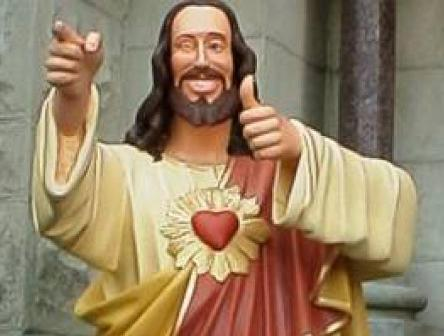
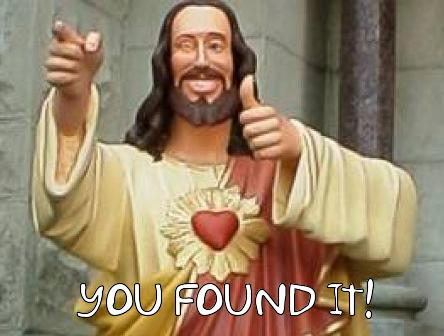
Final code clean-up & README update
Cleaned up code-base to remove unneeded example of the home app to make the provider search app the default home page.

Updated the README with instructions to fire up the application and touched up the about page.

Changed region(s): [[0.1757, 0.8333, 0.8491, 0.9524]]

diff --git a/src/about/components/about.jsx b/src/about/components/about.jsx
@@ -1,17 +1,32 @@
 import React, { Component } from 'react';
+import PageTitle from '../../shared/components/page-title';
+import '../../styles/about.css';
 
 // Since this component is simple and static, there's no parent container for it.
 export default class AboutPage extends Component {
     render() {
-        return <div className="container">
-            <div className="container-fluid text-center">
-                <h2>About This App</h2>
-            </div>
-            
-            <hr/>
+        return <div className="about-page-content">
+            <PageTitle title="About This App" />
 
-            <div className="container-fluid text-center">
-                <p>This app was built with Facebook's <b><a href="https://github.com/facebook/create-react-app">create-react-app</a></b> node module.</p>
+            <div className="about-container">
+                <p>The purpose of this app was to test my skills surrounding React and showcase how powerful it can be when paired with the modern miracle that is the Unidirectional dataflow.</p>
+                <p>This application includes the following features:</p>
+                <ul>
+                    <li>React+Redux</li>
+                    <li>Bootstrap Styling Framework</li>
+                    <li>Functional Programming</li>
+                    <li>Utilization of Meta Data</li>
+                    <li>An easter egg, the likes which have never been seen...</li>
+                </ul>
+                <p>I hope you have as much fun testing this app and trying to break it as I did conjuring it up for you all!</p>
+                <br/>
+
+                <p>God Bless,</p>
+                <p>Michael Schlecht</p>
+                <br/>
+                <br/>
+                <br/>
+                <small>This app was built with Facebook's <b><a href="https://github.com/facebook/create-react-app">create-react-app</a></b> tool.</small>
             </div>
         </div>;
     }

diff --git a/src/shared/components/navbar.jsx b/src/shared/components/navbar.jsx
@@ -11,10 +11,7 @@ export default class Navbar extends Component {
                 <div className="collapse navbar-collapse" id="navbarNav">
                     <ul className="navbar-nav">
                         <li className="nav-item">
-                            <Link className="nav-link text-white" to="/">Home</Link>
-                        </li>
-                        <li className="nav-item">
-                            <Link className="nav-link text-white" to="/provider">Provider</Link>
+                            <Link className="nav-link text-white" to="/">Provider</Link>
                         </li>
                         <li className="nav-item">
                             <Link className="nav-link text-white" to="/about">About</Link>

diff --git a/src/store/store.js b/src/store/store.js
@@ -1,17 +1,12 @@
 import * as ActionTypes from '../constants/action-types';
 import { createStore } from 'redux';
 import * as Models from '../constants/models';
-import * as HomeReducers from '../home/reducers/home.reducers';
 import * as ProviderReducers from '../provider/reducers/provider.reducers';
 
 export let appInitialState = Models.AppState;
 
 function app(previous = appInitialState, action) {
     switch (action.type) {
-        /** Home Action **/
-        case ActionTypes.UPDATE_NAME:
-            return HomeReducers.updateName(previous, action);
-
         /** Provider Actions **/
         case ActionTypes.SEARCHING_FOR_PROVIDERS:
             return ProviderReducers.searchingForProviders(previous, action);

diff --git a/src/app/app-body.jsx b/src/app/app-body.jsx
@@ -4,7 +4,6 @@ import {
   Route
 } from 'react-router-dom'
 /* pages */
-import HomeController from '../home/home.controller';
 import ProviderController from '../provider/provider.controller';
 import AboutPage from '../about/components/about';
 
@@ -12,8 +11,7 @@ export default class AppBody extends Component {
   render() {
     return (
       <div className="app-body">
-        <Route exact path="/" component={HomeController}/>
-        <Route exact path="/provider" component={ProviderController}/>
+        <Route exact path="/" component={ProviderController}/>
         <Route path="/about" component={AboutPage}/>
       </div>
     );

diff --git a/src/shared/shhh/easter-egg.jsx b/src/shared/shhh/easter-egg.jsx
@@ -13,11 +13,12 @@ export default class EasterEgg extends Component {
 
         this.hideModal = this.hideModal.bind(this);
     }
+
     componentDidMount() {
         setTimeout(this.hideModal, 3000);
     }
 
-    render() {
+    render() {    
         return <Modal
             isOpen={this.state.modalIsOpen}
             className="easter-egg-modal-details"
@@ -28,8 +29,8 @@ export default class EasterEgg extends Component {
     }
 
     hideModal() {
-        this.setState({ modalIsOpen: false })
-        this.props.hideEasterEgg()
+        this.setState({ modalIsOpen: false });
+        this.props.hideEasterEgg();
     }
 }
 

diff --git a/src/constants/models.js b/src/constants/models.js
@@ -1,9 +1,7 @@
 import * as Immutable from 'immutable';
 
-import { InitialState as HomeInitialState } from '../home/constants/home.models';
 import { InitialState as ProviderInitialState } from '../provider/constants/provider.models';
 
 export const AppState = Immutable.Map({
-    homeState: HomeInitialState,
     providerState: ProviderInitialState
 });

diff --git a/src/shared/components/page-title.jsx b/src/shared/components/page-title.jsx
@@ -8,7 +8,6 @@ export default class PageTitle extends Component {
             <div className="container-fluid text-center">
                 <h1>{this.props.title}</h1>
             </div>
-
             <br/>
             <hr/>
             <br/>

diff --git a/src/styles/about.css b/src/styles/about.css
@@ -1,0 +1,13 @@
+.about-page-content {
+    margin: auto;
+    width: 80%;
+    min-width: 960px;
+    max-width: 1080px;
+}
+
+.about-container {
+    text-align: left;
+    min-width: 500px;
+    width: 700px;
+    margin: 0 auto;
+}

diff --git a/src/styles/app.css b/src/styles/app.css
@@ -10,7 +10,7 @@ body {
   padding: 0;
   width: 444px;
   height: 336px;
-  margin: 280px auto auto auto;
+  margin: 200px auto auto auto;
   border-radius: 15px;
   overflow: hide;
   background: white;

diff --git a/src/constants/action-types.js b/src/constants/action-types.js
@@ -1,5 +1,3 @@
-export const UPDATE_NAME = 'UPDATE_NAME';
-
 /** Provider Actions **/
 export const GOT_PROVIDERS = "GOT_PROVIDERS";
 export const CLEAR_PROVIDERS = "CLEAR_PROVIDERS";

diff --git a/README.md b/README.md
@@ -1,5 +1,48 @@
-# CCM Provider React App
+CCM Provider React App
+======================
 
 This web application main purpose serves to act as a portal in to interface with a Provider API.  Users are able to search, display, and filter results from the CCM Provider database.
 
 This project was bootstrapped with [Create React App](https://github.com/facebookincubator/create-react-app).
+
+Gettin 'er goin
+---------------
+
+There are just a few steps in order to get this beauty of an application up and running locally.
+
+1) Ensure that you have both NPM and NodeJS installed on your machine.  You can check this by running both commands below to see if a version number is returned to you.
+
+    ```npm -v``` + ```node -v```
+
+2) If you don't have either installed, you can download and install both of them at through Node's installer available on [NodeJS's website](https://nodejs.org/en/download/).
+
+3) Ensure that you have git installed by running the following command.
+
+    ```git -v```
+
+4) If you don't have git installed, you can download it by following the directions available on [Git's website.](https://git-scm.com/book/en/v2/Getting-Started-Installing-Git)
+
+5) Now to the good part!  Clone this repo to your machine with the following command: 
+
+    ```git clone https://github.com/mischlecht/ccm-react-app.git```
+
+6) Enter into the directory that was just created:
+    
+    ```cd ccm-react-app```
+
+7) Install all of the necessary node modules needed to run the app:
+    
+    ```npm install```
+
+8) Once all dependencies are installed, you can fire up the application by running the following command:
+
+    ```npm start```
+
+9) This will build the project, start up a local node server to serve the app, and open your default browser to [localhost:3000](http://localhost:3000) where you can see the patent pending <b>CCM Provider Search Service™</b> at work!
+
+&nbsp;
+
+### TODO:
+- Center Google Maps on zip code searched on
+- Figure out Google Maps funny business happening in the browser console
+- moar tests
